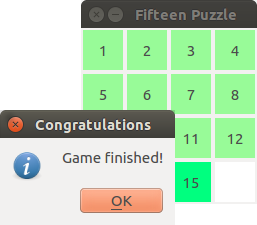
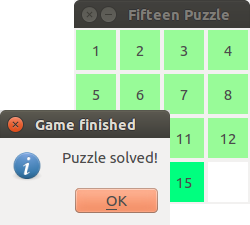
abstract game

diff --git a/p6-gui.html b/p6-gui.html
@@ -607,23 +607,46 @@ centralWidget()-&gt;setLayout(layout);
 <slide  >
   
     <hgroup>
-      <h2>Fifteen</h2>
+      <h2>Fifteen – Gioco astratto</h2>
       <h3></h3>
     </hgroup>
     <article >
       <figure>
         <img src="images/qt/fifteen-puzzle.jpg">
         
+      </figure><pre class="prettyprint" data-lang="C++"><code>class Game {
+public:
+    virtual void play_at(int x, int y) = 0;
+    virtual int cols() const = 0;
+    virtual int rows() const = 0;
+    virtual std::string get_val(int x, int y) const = 0;
+    virtual bool is_finished() const = 0;
+    virtual std::string get_message() const = 0;
+};
+</code></pre></article>
+ 
+</slide>
+
+<slide  >
+  
+    <hgroup>
+      <h2>Fifteen – Gui generica</h2>
+      <h3></h3>
+    </hgroup>
+    <article >
+      <figure>
+        <img src="images/qt/puzzle.png">
+        
       </figure><pre class="prettyprint" data-lang="C++"><code>class GameGui : public QWidget {
     Q_OBJECT
 public:
-    GameGui(Fifteen* puzzle);
+    GameGui(Game* game);
 private:
     void handle_click(int x, int y);
     void update_button(int x, int y);
     void update_all_buttons();
 
-    Fifteen* puzzle_;
+    Game* game_;
     int cols_, rows_;
 };
 </code></pre></article>
@@ -637,12 +660,9 @@ private:
       <h3></h3>
     </hgroup>
     <article >
-      <figure>
-        <img src="images/qt/puzzle.png">
-        
-      </figure><pre class="prettyprint" data-lang="C++"><code>GameGui::GameGui(Fifteen* puzzle) {
-    cols_ = puzzle.cols(); rows_ = puzzle.rows();
-    puzzle_ = puzzle; 
+      <pre class="prettyprint" data-lang="C++"><code>GameGui::GameGui(Game* game) {
+    cols_ = game.cols(); rows_ = game.rows();
+    puzzle_ = game;
     auto grid = new QGridLayout; setLayout(grid);
     for (auto y = 0; y &lt; rows_; ++y) {
         for (auto x = 0; x &lt; cols_; ++x) {
@@ -670,12 +690,9 @@ private:
     </hgroup>
     <article >
       <pre class="prettyprint" data-lang="C++"><code>void GameGui::update_button(int x, int y) {
-    auto val = puzzle_-&gt;get(x, y);
-    string symbol = "";
-    if (val &gt; 0) symbol = to_string(val);
-
+    auto val = puzzle_-&gt;get_val(x, y);
     auto b = layout()-&gt;itemAt(y * cols_ + x)-&gt;widget();
-    dynamic_cast&lt;QPushButton*&gt;(b)-&gt;setText(symbol.c_str());
+    dynamic_cast&lt;QPushButton*&gt;(b)-&gt;setText(val.c_str());
 }
 
 void GameGui::update_all_buttons() {
@@ -700,15 +717,13 @@ void GameGui::update_all_buttons() {
         <img src="images/qt/puzzle-solved.png">
         
       </figure><pre class="prettyprint" data-lang="C++"><code>void GameGui::handle_click(int x, int y) {
-    puzzle_-&gt;move_pos(x, y);
+    game_-&gt;play_at(x, y);
     update_all_buttons();  // ...
 
-    if (puzzle_-&gt;is_finished()) {
-        QMessageBox::information(this,
-                tr("Congratulations"),
-                tr("Game finished!"));
-        puzzle_-&gt;new_game();
-        update_all_buttons();
+    if (game_-&gt;is_finished()) {
+        QMessageBox::information(nullptr, tr("Game finished"),
+                                 tr(game_-&gt;get_message().c_str()));
+        window()-&gt;close();
     }
 }
 </code></pre></article>
